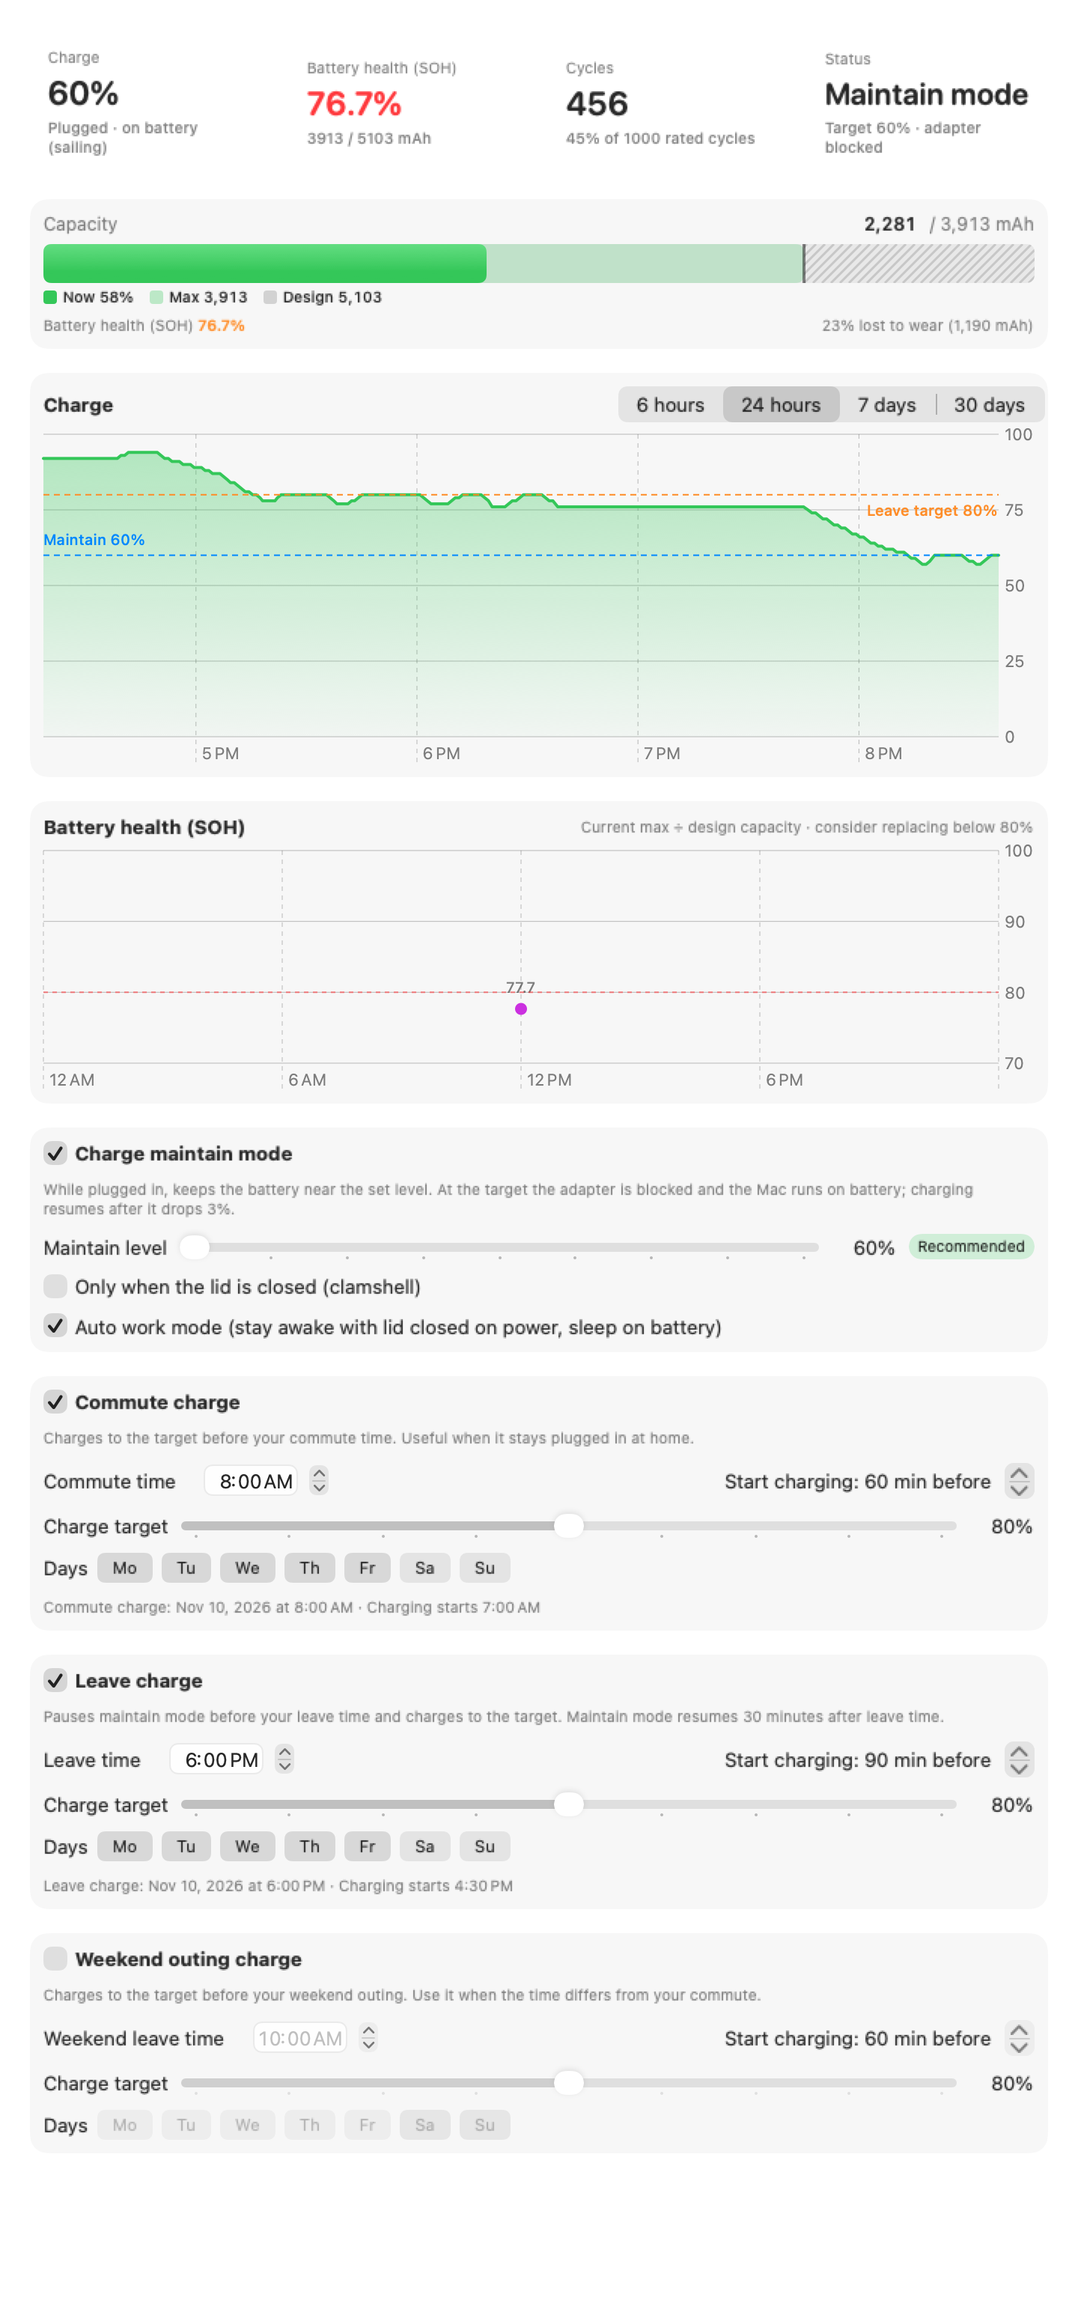
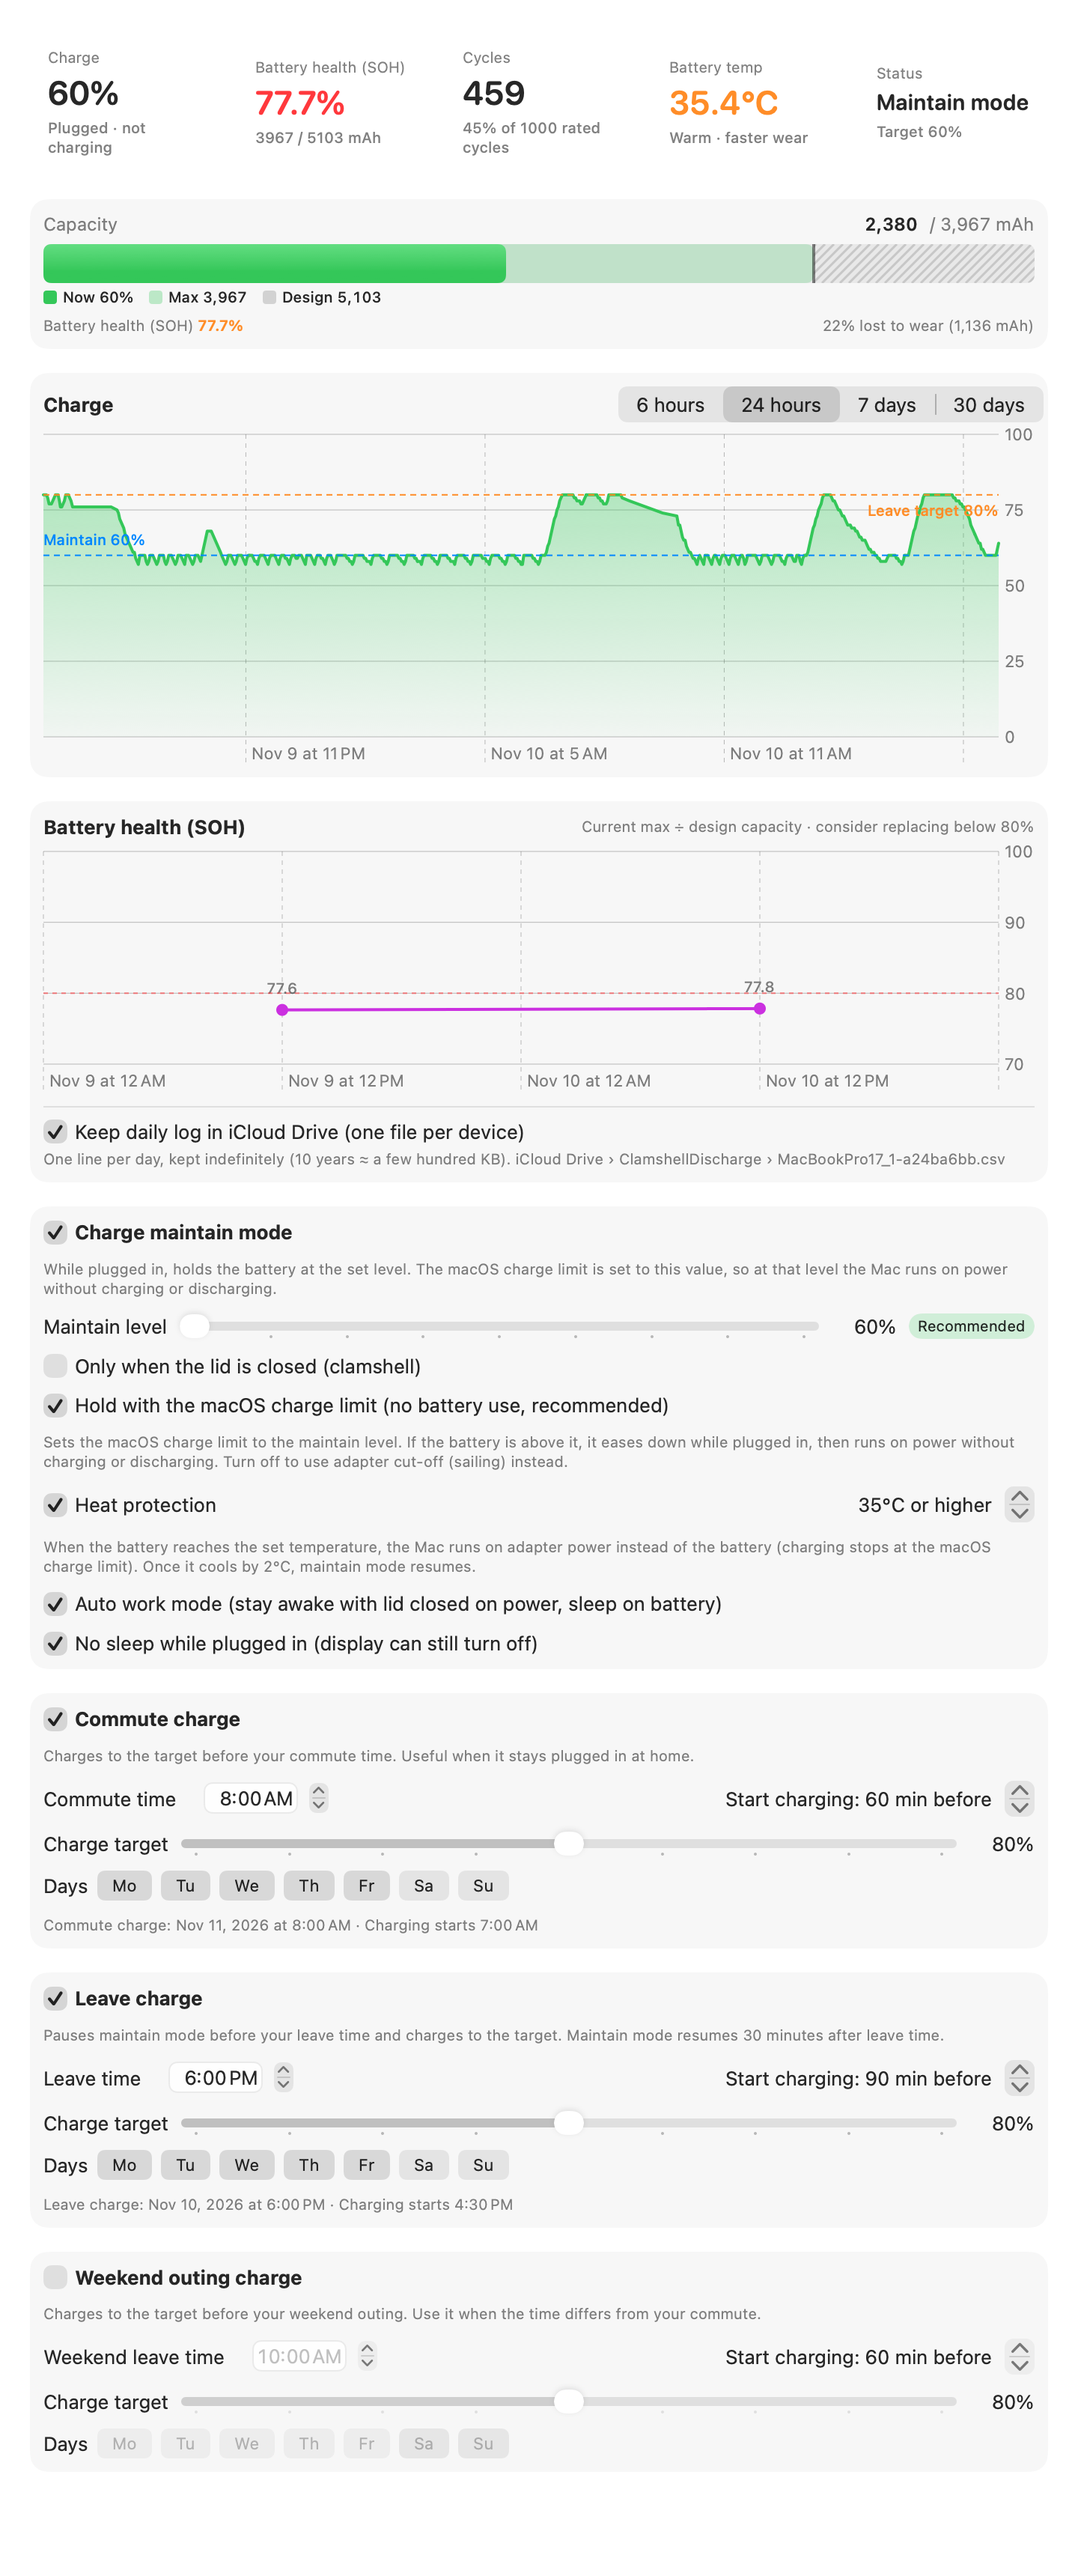
Update screenshots; dashboard text for macOS charge limit mode; popover toggle alignment (v1.14.1)

diff --git a/Sources/L10n.swift b/Sources/L10n.swift
@@ -187,6 +187,7 @@ enum L10n {
         "macOS 충전 제한으로 유지 (배터리 안 씀, 권장)": ["Hold with the macOS charge limit (no battery use, recommended)", "macOS の充電上限で保持(バッテリーを使わない、推奨)", "用 macOS 充电上限保持(不用电池，推荐)"],
         "유지 수준을 macOS 충전 제한 값으로 씁니다. 현재보다 높으면 전원을 꽂은 채 제한까지 천천히 내려간 뒤, 충전도 방전도 하지 않고 전원으로만 동작합니다. 끄면 어댑터를 끊었다 붙이는 방식(세일링)을 씁니다.": ["Sets the macOS charge limit to the maintain level. If the battery is above it, it eases down while plugged in, then runs on power without charging or discharging. Turn off to use adapter cut-off (sailing) instead.", "保持レベルを macOS の充電上限に設定します。現在値が高い場合は電源接続のまま上限までゆっくり下がり、その後は充電も放電もせず電源だけで動作します。オフにするとアダプタを切り替える方式(セーリング)を使います。", "将保持水平写入 macOS 充电上限。若当前电量更高，会在接电源时缓慢降到上限，然后不充不放、仅用电源运行。关闭则改用切断适配器的方式(航行)。"],
         "관리자 권한을 한 번 허용하면 사용할 수 있습니다.": ["Available after allowing administrator access once.", "管理者権限を一度許可すると使えます。", "允许一次管理员权限后即可使用。"],
+        "전원이 연결된 동안 배터리를 설정한 수준으로 유지합니다. macOS 충전 제한을 이 값으로 정해서, 그 수준에서는 충전도 방전도 하지 않고 전원으로만 동작합니다.": ["While plugged in, holds the battery at the set level. The macOS charge limit is set to this value, so at that level the Mac runs on power without charging or discharging.", "電源接続中、バッテリーを設定レベルに保ちます。macOS の充電上限をこの値にするので、そのレベルでは充電も放電もせず電源だけで動作します。", "接电源时将电池保持在设定水平。macOS 充电上限设为此值，到达后不充不放，仅用电源运行。"],
         "고온 보호": ["Heat protection", "高温保護", "高温保护"],
         "%@°C 이상 배터리 안 씀": ["No battery use at %@°C+", "%@°C以上はバッテリーを使わない", "%@°C 以上不用电池"],
         "%@°C 이상": ["%@°C or higher", "%@°C以上", "%@°C 以上"],

diff --git a/Sources/Dashboard.swift b/Sources/Dashboard.swift
@@ -222,7 +222,9 @@ struct DashboardView: View {
                 })) {
                     Text(tr("충전 유지 모드")).font(.headline)
                 }
-                Text(tr("전원이 연결된 동안 배터리를 설정한 수준 근처로 유지합니다. 목표에 닿으면 어댑터를 차단해 배터리로 쓰다가, \(settings.band)% 내려오면 다시 충전합니다."))
+                Text(engine.nativeUsable
+                     ? tr("전원이 연결된 동안 배터리를 설정한 수준으로 유지합니다. macOS 충전 제한을 이 값으로 정해서, 그 수준에서는 충전도 방전도 하지 않고 전원으로만 동작합니다.")
+                     : tr("전원이 연결된 동안 배터리를 설정한 수준 근처로 유지합니다. 목표에 닿으면 어댑터를 차단해 배터리로 쓰다가, \(settings.band)% 내려오면 다시 충전합니다."))
                     .font(.caption).foregroundStyle(.secondary).fixedSize(horizontal: false, vertical: true)
                 HStack {
                     Text(tr("유지 수준"))
@@ -246,7 +248,7 @@ struct DashboardView: View {
                          : tr("관리자 권한을 한 번 허용하면 사용할 수 있습니다."))
                         .font(.caption).foregroundStyle(.secondary).fixedSize(horizontal: false, vertical: true)
                     if settings.useNativeLimit && !engine.nativeReady {
-                        Button(tr("권한 설정 (최초 1회)…")) { NSApp.sendAction(#selector(AppDelegate.setupNativeLimit), to: nil, from: nil) }
+                        Button(tr("권한 설정 (최초 1회)…")) { NSApp.sendAction(Selector(("setupNativeLimit")), to: nil, from: nil) }
                     }
                 }
                 HStack {

diff --git a/Sources/Popover.swift b/Sources/Popover.swift
@@ -357,7 +357,9 @@ struct PopoverView: View {
                 }
             }
             .disabled(!actions.permissionReady())
-            Toggle(tr("전원 연결 시 잠자기 안 함"), isOn: $settings.keepDisplayOnAC)
+            Toggle(isOn: $settings.keepDisplayOnAC) {
+                HStack { Text(tr("전원 연결 시 잠자기 안 함")); Spacer() }
+            }
             Toggle(isOn: Binding(get: { settings.hidWake }, set: { on in
                 settings.hidWake = on
                 if on && !HIDWaker.shared.accessGranted { HIDWaker.shared.requestAccess() }
